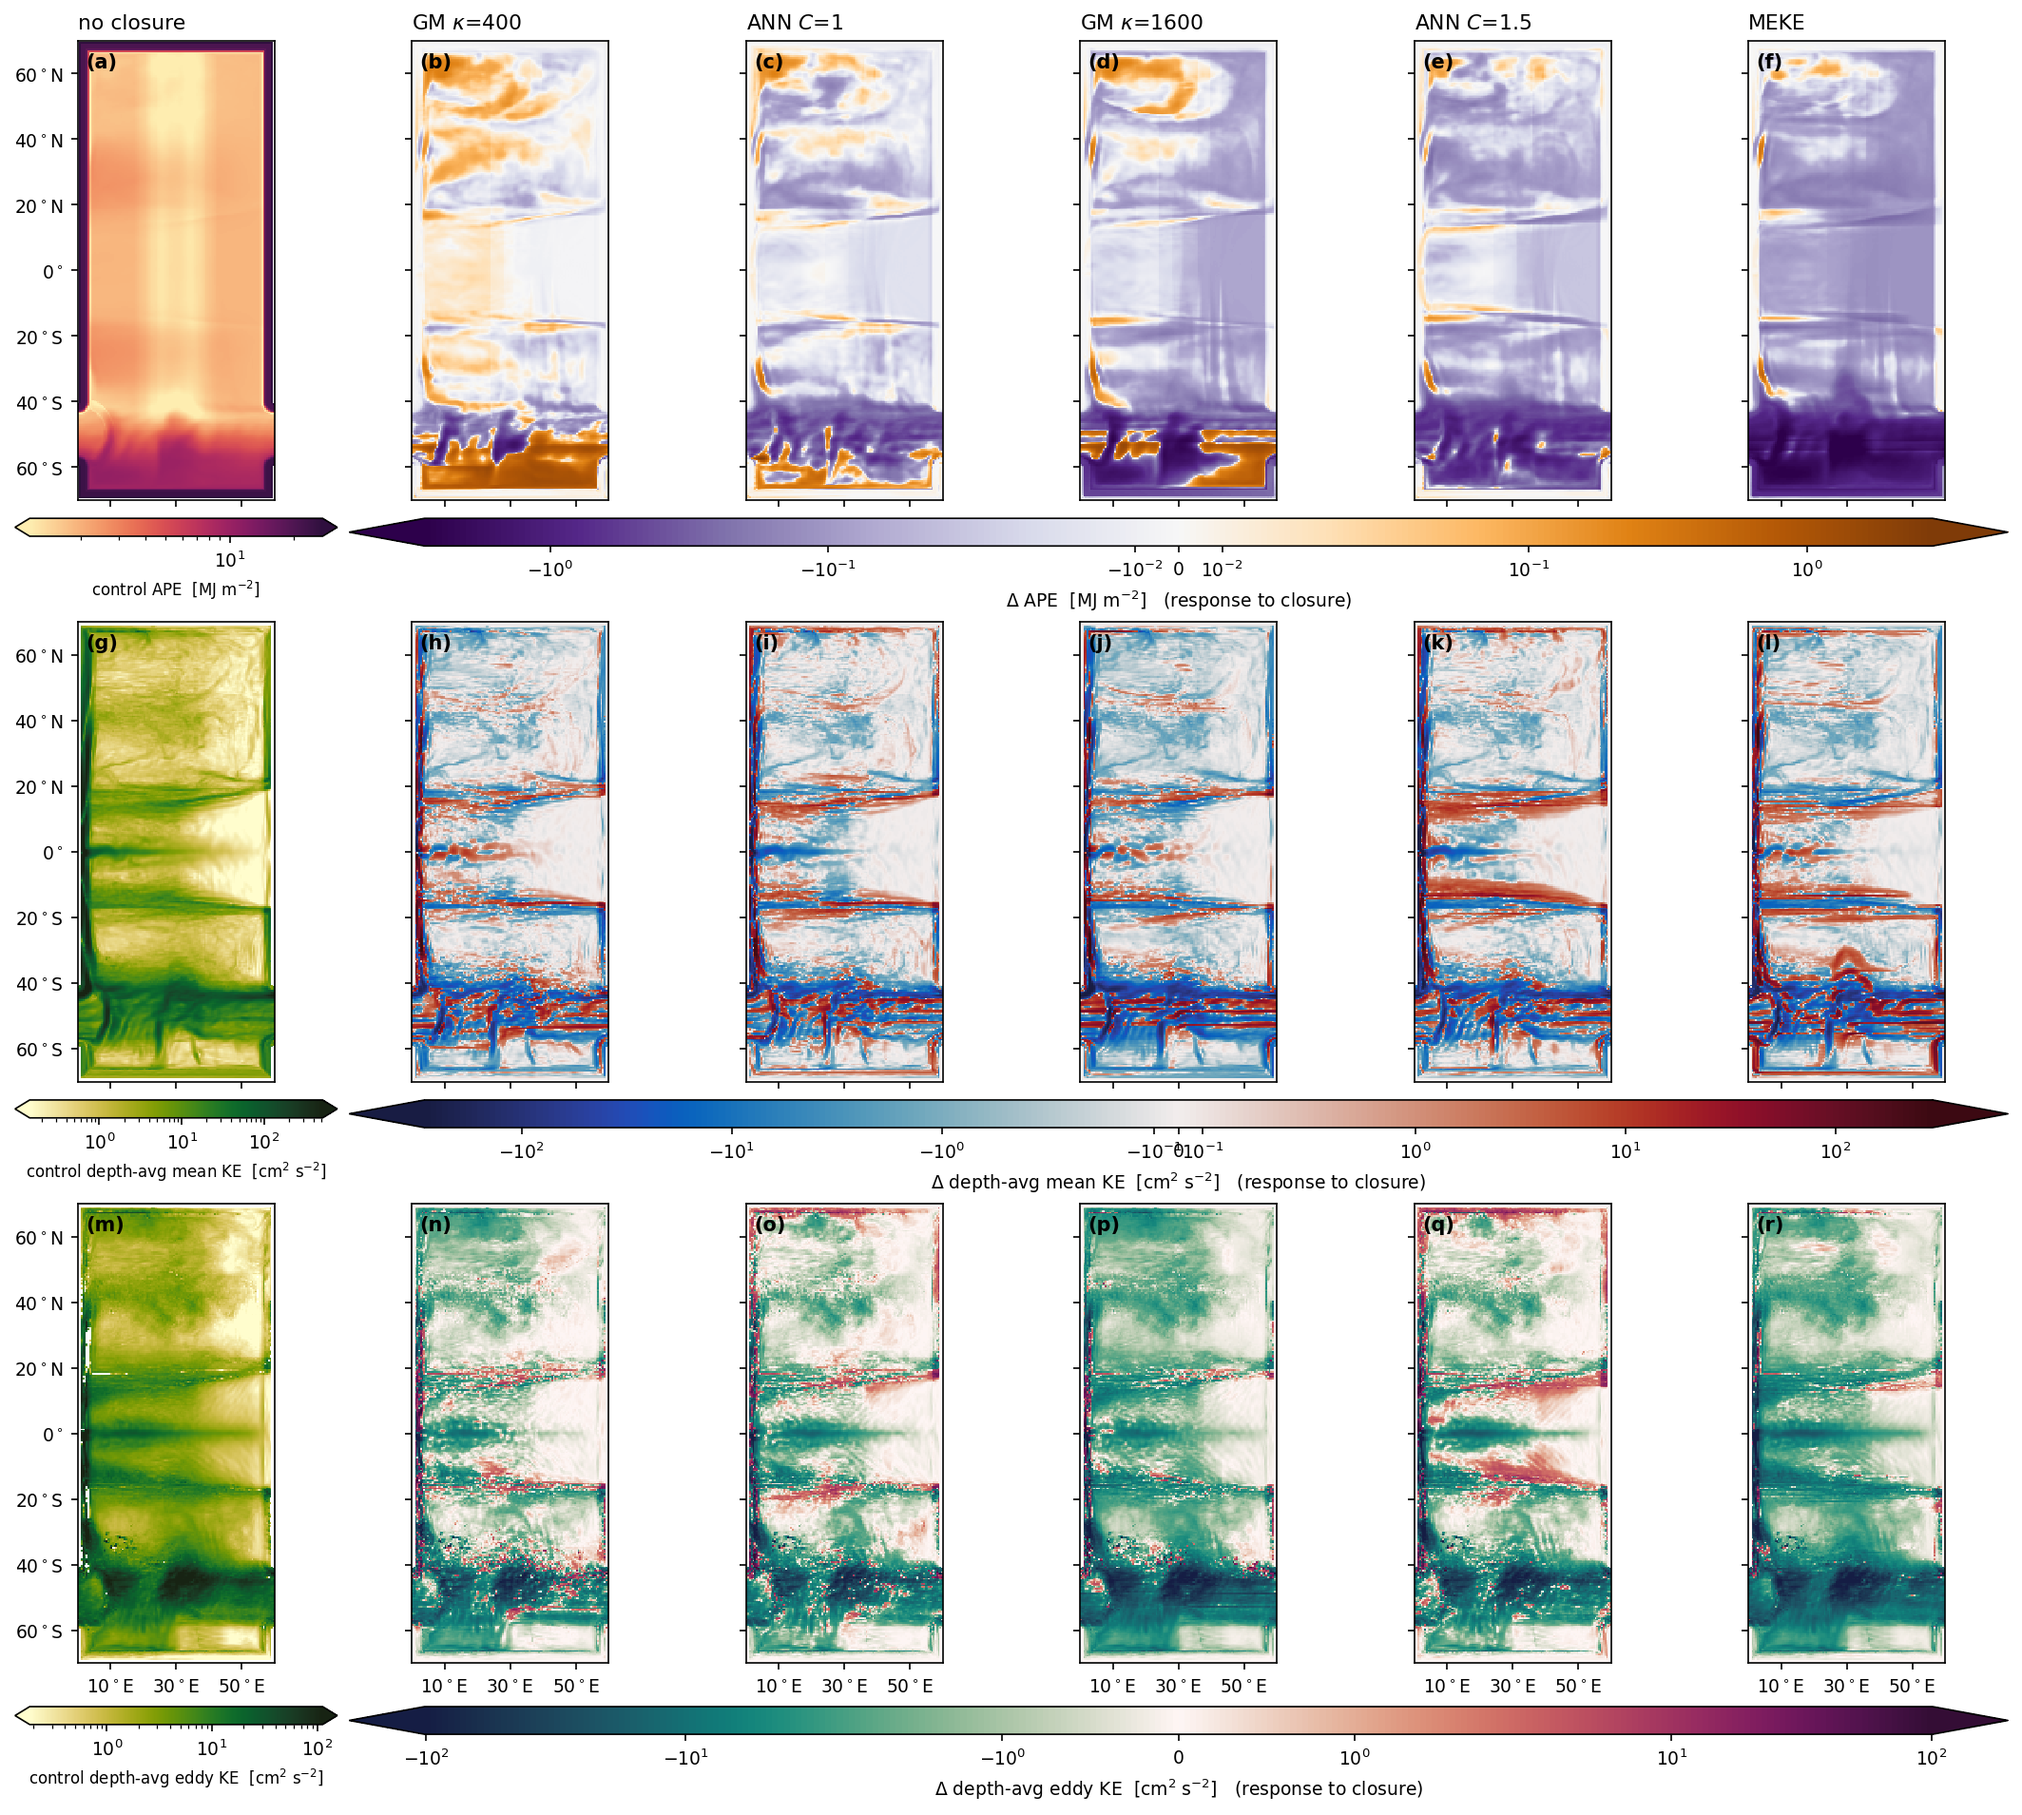
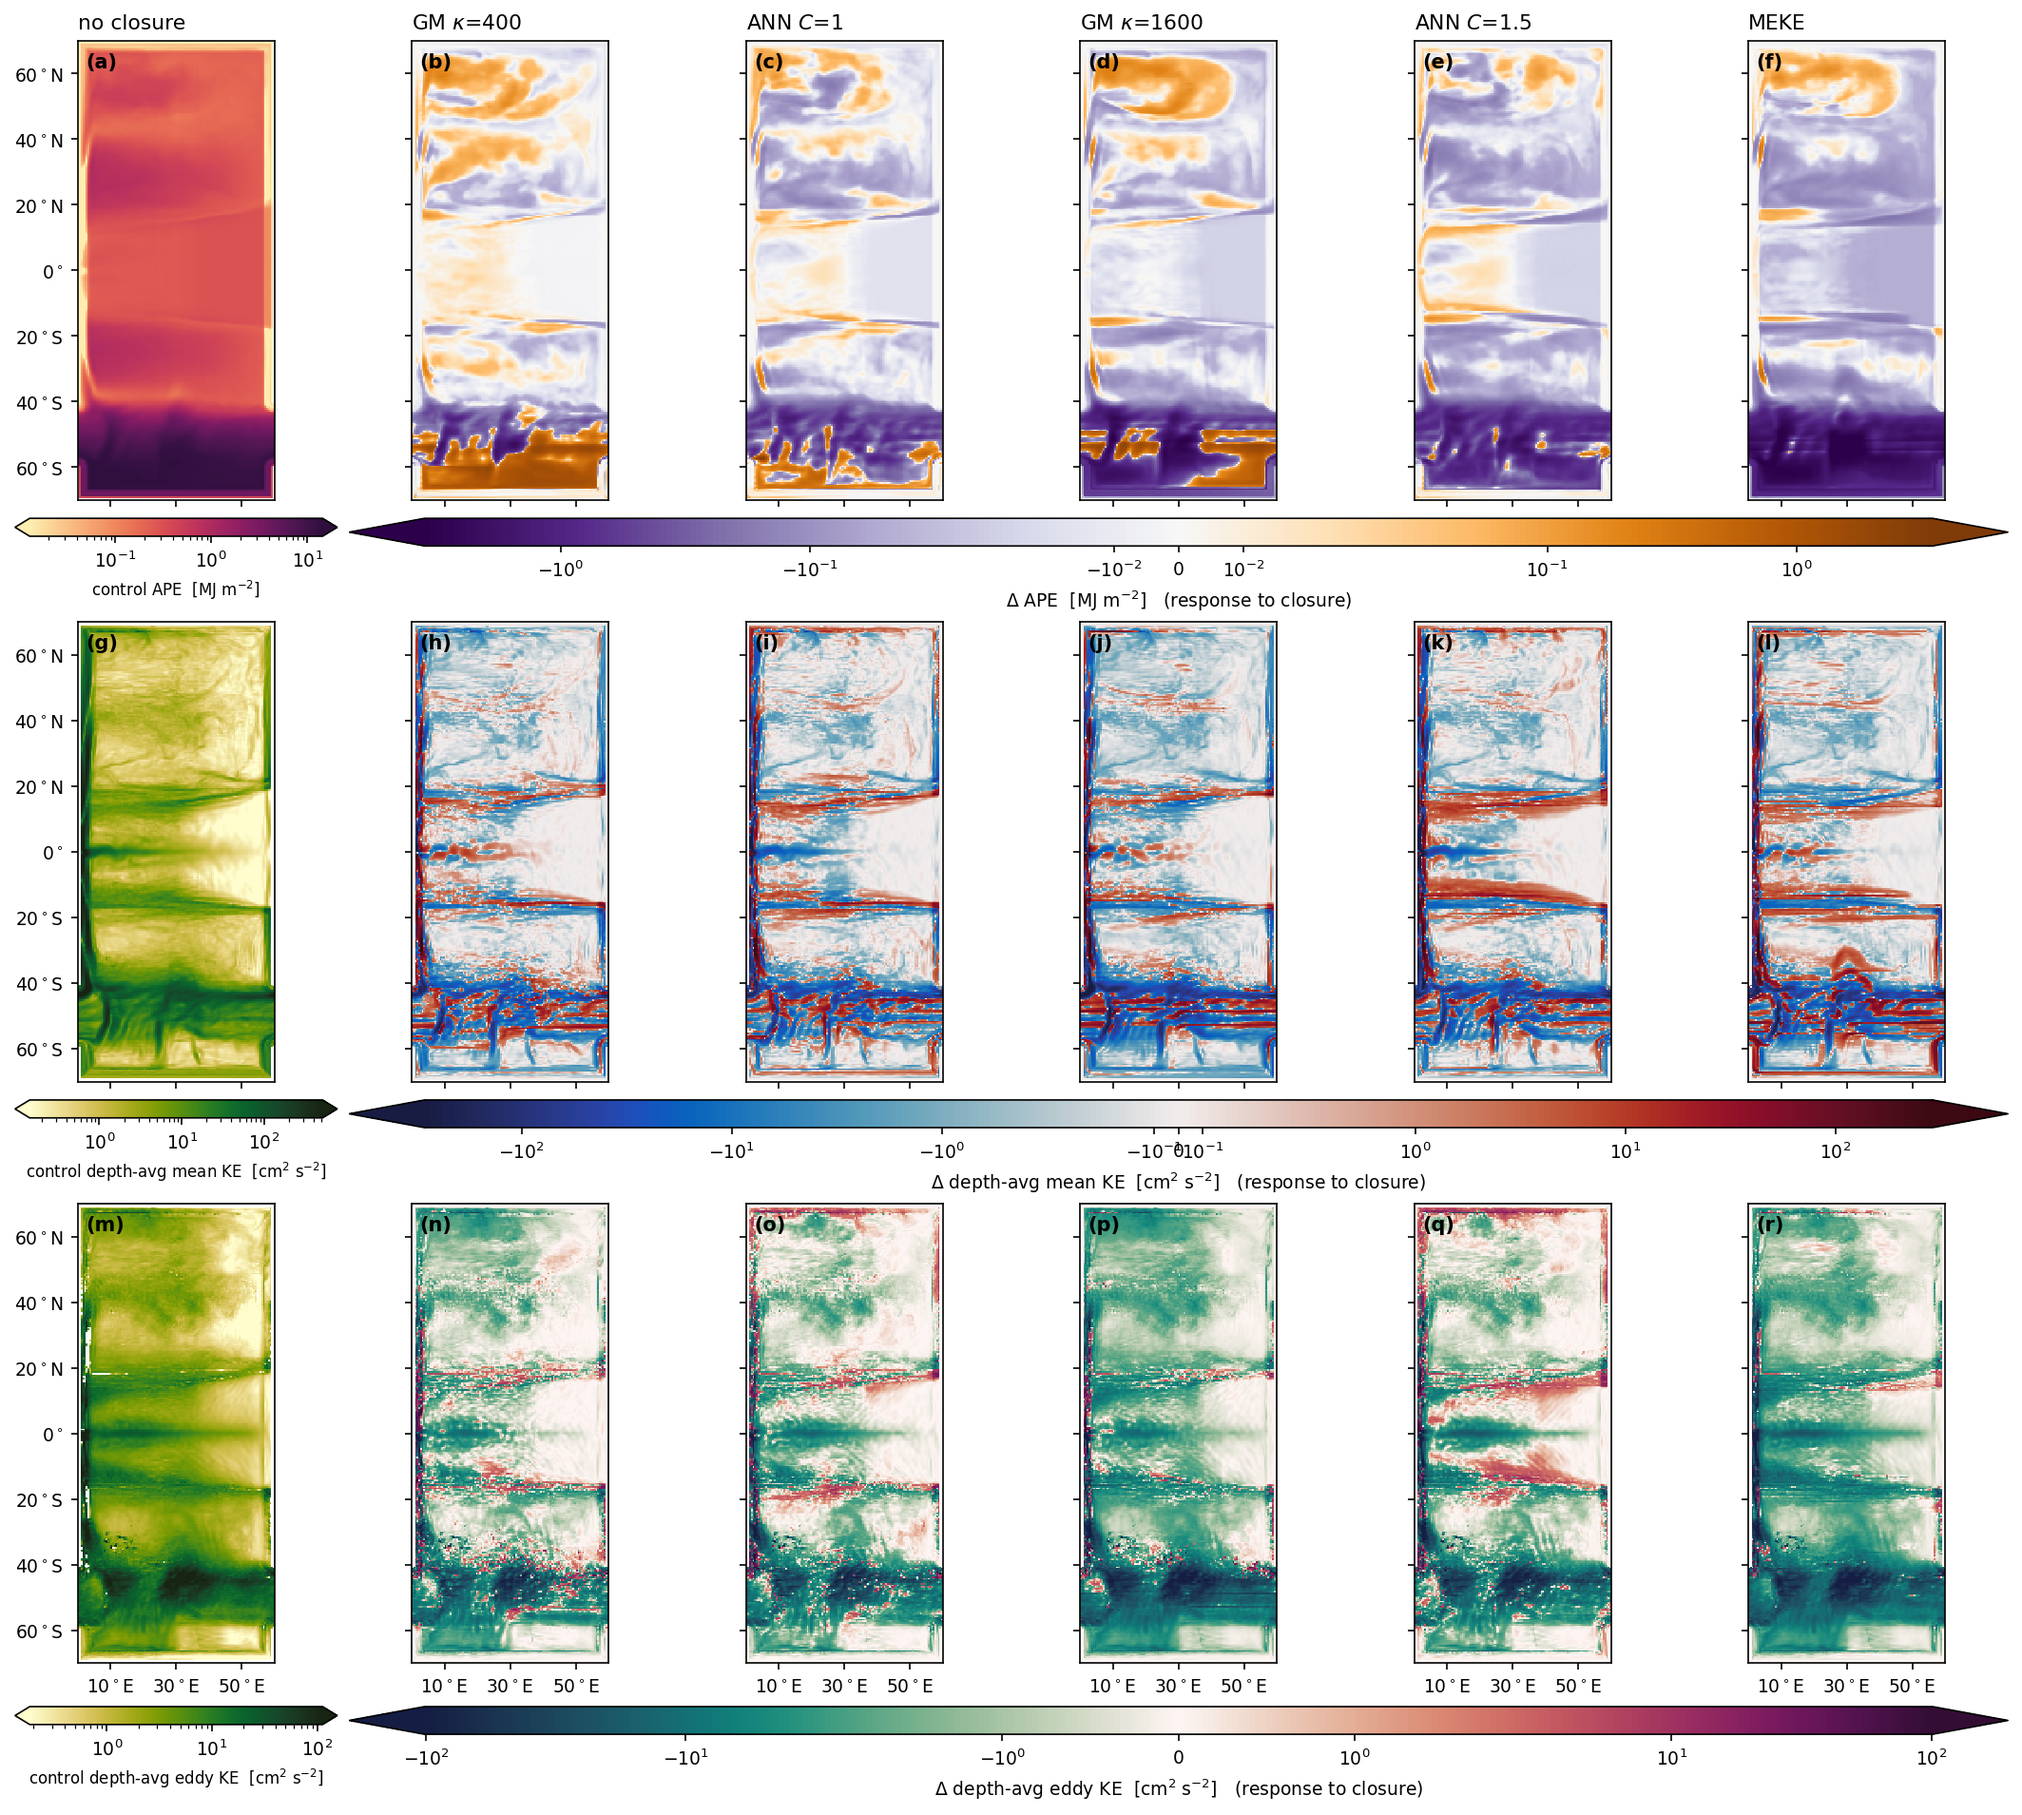
Single-source the corrected NW2 APE in nw2_common.py; patch all five consumers and regenerate the three stale figures
The uncorrected APE (horizontal-mean reference, no topography term) had lingered in three figure
scripts a week after nw2_ape_check.py established it was wrong. nw2_common.py now holds the one
correct implementation (e_rest=-H0, pinned part max(e_bot-e_rest,0)^2 subtracted) with the history
in its docstring; every consumer imports it, including the two that already had correct inline
copies, so a future fix propagates everywhere. nw2_ape_check.py alone keeps both forms -- it is the
audit. Regenerated figures verified: the control-APE reference panel now shows ~0-14 MJ/m2
concentrated in the channel band rather than the pinned-column-inflated 5-25 basin-wide.

Claude-Session: https://claude.ai/code/session_013YxY5kSiCrM21jUwV4Z6dE

diff --git a/src/training-on-CM2.6/scripts/nw2_common.py b/src/training-on-CM2.6/scripts/nw2_common.py
@@ -1,0 +1,47 @@
+"""Shared NW2 analysis helpers — in particular THE one correct APE functional.
+
+Created 2026-08-07 after the uncorrected APE (horizontal-mean reference, no topography term)
+lingered in three figure scripts a week after nw2_ape_check.py had established it was wrong.
+Import from here instead of re-deriving APE inline, so a future fix propagates everywhere.
+
+    APE(x,y) = sum_i 0.5 g drho_i [ (e_i - e_rest_i)^2 - max(e_bot - e_rest_i, 0)^2 ]
+
+with e_rest = -H0 (MOM6's own adiabatically-flattened minimum-APE state, from ocean.stats.nc; e is
+negative-down, H0 positive-down) and the max(...) term removing the part of the displacement that
+is pinned by topography and therefore not available (Perezhogin, notebooks/Figure-3.ipynb). In NW2
+~16% of (interface, column) pairs are pinned, and the old form overstated absolute APE by ~215%;
+dAPE area-means happen to survive (adiabatic closures conserve layer volume, and the pinned term
+cancels in differences) but dAPE maps are ~30% low in rms without the correction."""
+import numpy as np, xarray as xr, glob
+
+G = 9.8
+
+def last(base, run, stream, n=5):
+    """The final n files of a stream, run under `base` (the last windows of the leg)."""
+    return sorted(glob.glob(f"{base}/{run}/output/{stream}_*.nc"))[-n:]
+
+def emean(base, run, n=5):
+    """Time-mean interface heights over the last n longmean windows (zi, yh, xh)."""
+    return np.mean([xr.open_dataset(f, decode_times=False)["e"].mean("time").values
+                    for f in last(base, run, "longmean", n)], axis=0)
+
+def load_grid(base, run="bare"):
+    """(layer target densities, lat, lon) from a longmean file."""
+    d = xr.open_dataset(last(base, run, "longmean")[-1], decode_times=False)
+    out = d["zl"].values, d["yh"].values, d["xh"].values
+    d.close()
+    return out
+
+def load_e_rest(base, run="bare", nrec=200):
+    """Reference interfaces e_rest = -H0, averaged over the last nrec ocean.stats records."""
+    s = xr.open_dataset(f"{base}/{run}/output/ocean.stats.nc", decode_times=False)
+    e_rest = -s["H0"].values[-nrec:].mean(axis=0)
+    s.close()
+    return e_rest
+
+def ape_map(e, e_rest, drho):
+    """Corrected interface-displacement APE [J/m2]: -H0 reference, topography-pinned part removed."""
+    ei = e[1:-1]
+    er = e_rest[1:-1][:, None, None]
+    hb = np.maximum(e[-1][None] - er, 0.0)     # seafloor above the reference -> pinned, unavailable
+    return np.nansum(0.5 * G * drho[:, None, None] * ((ei - er) ** 2 - hb ** 2), axis=0)

diff --git a/src/training-on-CM2.6/scripts/nw2_energy_panels.py b/src/training-on-CM2.6/scripts/nw2_energy_panels.py
@@ -42,8 +42,9 @@ def emean(run):
 
 d0 = xr.open_dataset(last("bare", "longmean")[-1], decode_times=False)
 rho_l, lat, lon = d0["zl"].values, d0["yh"].values, d0["xh"].values; d0.close()
-drho = np.diff(rho_l); e0 = emean("bare"); R = np.nanmean(e0[1:-1], axis=(1, 2))
-ape = lambda e: np.nansum(0.5*G*drho[:, None, None]*(e[1:-1]-R[:, None, None])**2, axis=0)
+from nw2_common import load_e_rest, ape_map as _ape_corrected   # corrected APE (2026-08-07)
+drho = np.diff(rho_l); e0 = emean("bare"); e_rest = load_e_rest(B)
+ape = lambda e: _ape_corrected(e, e_rest, drho)
 A0 = ape(e0); M0, E0 = energy("bare")
 res = {r: (ape(emean(r))-A0, energy(r)[0]-M0, energy(r)[1]-E0) for r, _ in ORDER}
 

diff --git a/src/training-on-CM2.6/scripts/nw2_ape_eke_maps.py b/src/training-on-CM2.6/scripts/nw2_ape_eke_maps.py
@@ -54,12 +54,12 @@ d0.close()
 # interface i sits between layers i-1 and i; interior interfaces 1..nz-1
 drho = np.diff(rho_l)                          # (nz-1,)
 
+from nw2_common import load_e_rest, ape_map as _ape_corrected   # corrected APE (2026-08-07)
+e_rest = load_e_rest(B)
 e_bare = emean("bare")
-R = np.nanmean(e_bare[1:-1], axis=(1, 2))      # common reference: horizontal-mean bare interfaces
 
 def ape_map(e):
-    ei = e[1:-1]                               # interior interfaces
-    return np.nansum(0.5 * G * drho[:, None, None] * (ei - R[:, None, None]) ** 2, axis=0)
+    return _ape_corrected(e, e_rest, drho)
 
 A0, K0 = ape_map(e_bare), eke_map("bare")
 res = {}

diff --git a/src/training-on-CM2.6/scripts/nw2_ape_ke_maps.py b/src/training-on-CM2.6/scripts/nw2_ape_ke_maps.py
@@ -50,9 +50,10 @@ d0 = xr.open_dataset(last("bare", "longmean")[-1], decode_times=False)
 rho_l, lat, lon = d0["zl"].values, d0["yh"].values, d0["xh"].values
 d0.close()
 drho = np.diff(rho_l)
+from nw2_common import load_e_rest, ape_map as _ape_corrected   # corrected APE (2026-08-07)
+e_rest = load_e_rest(B)
 e_bare = ape("bare")
-R = np.nanmean(e_bare[1:-1], axis=(1, 2))
-ape_map = lambda e: np.nansum(0.5 * G * drho[:, None, None] * (e[1:-1] - R[:, None, None])**2, axis=0)
+ape_map = lambda e: _ape_corrected(e, e_rest, drho)
 
 A0 = ape_map(e_bare); M0, E0 = energy("bare")
 res = {r: (ape_map(ape(r)) - A0, energy(r)[0] - M0, energy(r)[1] - E0) for r, _ in ORDER}

diff --git a/src/training-on-CM2.6/scripts/nw2_ape_response.py b/src/training-on-CM2.6/scripts/nw2_ape_response.py
@@ -39,10 +39,9 @@ def rung(base):
         return np.mean([xr.open_dataset(f, decode_times=False)["e"].mean("time").values
                         for f in last(base, r, "longmean")], axis=0)
 
+    from nw2_common import ape_map as _ape_corrected
     def ape(e):
-        ei, er, ebot = e[1:-1], e_rest[1:-1][:, None, None], e[-1][None]
-        hb = np.maximum(ebot - er, 0.0)                 # pinned by topography -> not available
-        return np.nansum(0.5*G*drho[:, None, None]*((ei-er)**2 - hb**2), axis=0)
+        return _ape_corrected(e, e_rest, drho)
 
     A0 = ape(emean("bare"))
     return lat, lon, A0, {r: ape(emean(r)) - A0 for r, _ in ORDER}

diff --git a/src/training-on-CM2.6/scripts/nw2_vs_truth.py b/src/training-on-CM2.6/scripts/nw2_vs_truth.py
@@ -36,10 +36,9 @@ drho = np.diff(rho_l)
 st = xr.open_dataset(f"{B}/bare/output/ocean.stats.nc", decode_times=False)
 e_rest = -st["H0"].values[-200:].mean(axis=0); st.close()
 
+from nw2_common import ape_map as _ape_corrected
 def ape(e):
-    ei, er, ebot = e[1:-1], e_rest[1:-1][:, None, None], e[-1][None]
-    hb = np.maximum(ebot - er, 0.0)
-    return np.nansum(0.5*G*drho[:, None, None]*((ei-er)**2 - hb**2), axis=0)
+    return _ape_corrected(e, e_rest, drho)
 
 def run_fields(r):
     e = np.mean([xr.open_dataset(f, decode_times=False)["e"].mean("time").values

diff --git a/PLAN.md b/PLAN.md
@@ -287,3 +287,4 @@ Using the M1 inventory, reduce the analysis sprawl to a canonical story.
   | MEKE | −271.4 | 790.5 | −173.7 | 479.6 | |
 
   **The scale-awareness result from the ladder shows up in APE too, and more starkly.** Going ½°→¼°, both ANN responses **collapse toward zero** (C=1: −51.8→+9.7; C=1.5: −116.7→+3.9 kJ/m², with rms halving 183→100 and 299→176) while the diffusive closures **hold or strengthen** (GM400 +27.0→+29.7 with rms rising 310→354; GM1600 −85.9→−117.3). ⇒ at the eddy-permitting rung the ANN has almost stopped acting on the domain-mean APE while GM is doing as much as ever — the same "does less when the model resolves more" behaviour as the interface-displacement metric (18.4→9.1 m), now in an energy measure. **Caution before this is quoted:** an area-mean near zero (+9.7, +3.9) does NOT mean the closure is inactive — the rms is still 100–176 kJ/m², so the ANN is redistributing APE regionally while the domain integral cancels. Panels (g) and (i) show why: strong orange/purple structure in the channel band with opposing signs. That distinction (redistribution vs net removal) is worth making explicitly in §4.2 rather than letting the mean stand alone. **Still outstanding:** `nw2_ape_ke_maps.py`, `nw2_energy_panels.py`, `nw2_ape_eke_maps.py` retain the old APE in their APE rows (their MKE/EKE rows are unaffected); regenerate or retire before any of them is used.
+- **2026-08-07 (cont) — APE single-sourced so the uncorrected form cannot come back.** New `scripts/nw2_common.py` holds THE corrected APE (`e_rest=-H0`, topography-pinned part removed) + shared loaders; all five consumers (`nw2_ape_eke_maps`, `nw2_ape_ke_maps`, `nw2_energy_panels`, `nw2_vs_truth`, `nw2_ape_response`) now import it — the last two had their own (correct) inline copies replaced too, so exactly ONE implementation exists; `nw2_ape_check.py` alone keeps both forms on purpose (it IS the old-vs-new audit). The three stale figures regenerated with the corrected functional; the reference panel of `nw2_ape_ke_maps.png` now shows control APE ~0–14 MJ/m² concentrated in the channel band (was ~5–25 basin-wide — the pinned-column inflation). The dead `nw2_ape_ke_maps_R4.py` sed-stub deleted.
